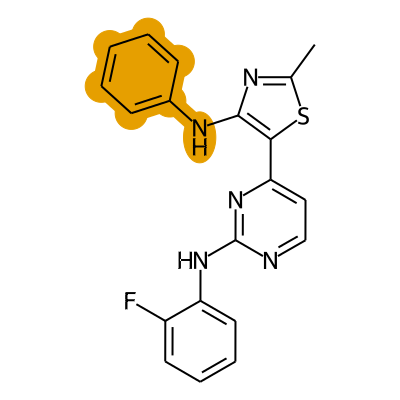
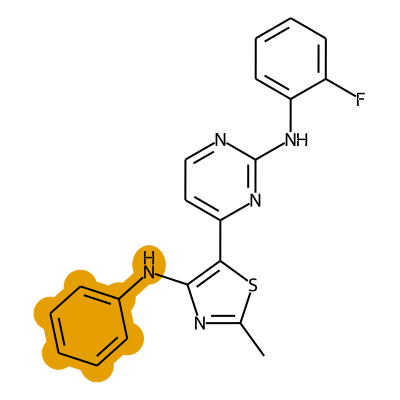
#19 WIP: Change how the MCS calculation works.
The molecules are included in a Pool, where MCS (core) is calculated once. This
core is used to build the image for each molecule.

Careful: RDKit is a bit hackish, so set and retrieve properties is not straight
forward, and you lose track of the Objects quite easily.

diff --git a/networkgen/mapgen.py b/networkgen/mapgen.py
@@ -1,5 +1,5 @@
 import argparse
-from functools import lru_cache
+from functools import cached_property, lru_cache
 import io
 
 import networkx as nx
@@ -32,22 +32,76 @@ def get_palette(name="OKABE"):
     return result
 
 
+class MoleculePool:
+    """Keeps track of a group of molecules, adding the properties needed.
+
+    mcs: The Maximum Common Substructure (the core).
+    core: The common core for all molecules as a Mol object.
+    query_core: Same as core, but to use with decomposition.
+    groups: A list of Core + Residues found for each molecule."""
+    def __init__(self, molecules):
+        self.molecules = molecules
+        self.groups  # Inits the core
+
+    def __getitem__(self, idx):
+        return self.molecules[idx]
+
+    @cached_property
+    def mcs(self):
+        if len(self.molecules) == 1:
+            # If the "pool" is only one, create a pool of two to cheat FindMCS.
+            # The MCS will be the whole molecule.
+            molecules = [self.molecules[0], self.molecules[0]]
+        else:
+            molecules = self.molecules
+
+        return rdFMCS.FindMCS(molecules,
+                              matchValences=False,
+                              ringMatchesRingOnly=True,
+                              completeRingsOnly=True,
+                              matchChiralTag=False)
+
+    @cached_property
+    def core(self):
+        return Chem.MolFromSmarts(self.mcs.smartsString)
+
+    @cached_property
+    def query_core(self):
+        ps = Chem.AdjustQueryParameters.NoAdjustments()
+        ps.makeDummiesQueries = True
+        return Chem.AdjustQueryProperties(self.core, ps)
+
+    @cached_property
+    def groups(self):
+        molecule_matches = []
+        for molecule in self.molecules:
+            if molecule.HasSubstructMatch(self.query_core):
+                molecule_matches.append(molecule)
+                for atom in molecule.GetAtoms():
+                    atom.SetIntProp("SourceAtomIdx", atom.GetIdx())
+
+        return Chem.rdRGroupDecomposition.RGroupDecompose(
+            [self.query_core], molecule_matches, asSmiles=False, asRows=True)[0]
+
+
 class MoleculeImage:
     """Creates and writes Images of molecules."""
     # Workflow mostly based on
     # https://rdkit.blogspot.com/2020/10/molecule-highlighting-and-r-group.html
-    def __init__(self, molecule, core=None, palette="OKABE"):
-        self.molecule = Chem.Mol(molecule)  # RDKit modifies the original
+    def __init__(self, pool_idx=0, pool=None, palette="OKABE"):
+        self.pool = pool  # This is the info of all other molecules
+        self.pool_idx = pool_idx
+        self.molecule = Chem.Mol(self.pool[self.pool_idx])  # RDKit modifies the original
         # Create a new molecule to store the drawing changes
         self.draw_mol = self.molecule
 
         self.palette = get_palette(name=palette)
         try:
-            self.name = molecule.GetProp("_Name")
+            self.name = self.molecule.GetProp("_Name")
         except KeyError:
             self.name = ""
 
-        self.core = core  # This is the part of the molecule common to others
+        self.core = Chem.Mol(self.pool.core)  # Copy the core
         self.size = (400, 400)
         self.fill_rings = False
         self.idx_property = "SourceAtomIdx"
@@ -69,20 +123,20 @@ class MoleculeImage:
             self.core = Chem.MolFromSmarts(self.core.smartsString)
             rdDepictor.Compute2DCoords(self.core)
 
-    def _find_core(self):
-        """Find the MCS (core) structure in our molecule and set up groups."""
-        #  then tag matching atom indices in each ligand.
-        ps = Chem.AdjustQueryParameters.NoAdjustments()
-        ps.makeDummiesQueries = True
-
-        qcore = Chem.AdjustQueryProperties(self.core, ps)
-        if self.molecule.HasSubstructMatch(qcore):
-            for atom in self.molecule.GetAtoms():
-                atom.SetIntProp("SourceAtomIdx", atom.GetIdx())
-
-        self.groups = rdRGroupDecomposition.RGroupDecompose(
-            [qcore], [self.molecule], asSmiles=False, asRows=True)[0][0]
-
+#    def _find_core(self):
+#        """Find the MCS (core) structure in our molecule and set up groups."""
+#        #  then tag matching atom indices in each ligand.
+#        ps = Chem.AdjustQueryParameters.NoAdjustments()
+#        ps.makeDummiesQueries = True
+#
+#        qcore = Chem.AdjustQueryProperties(self.core, ps)
+#        if self.molecule.HasSubstructMatch(qcore):
+#            for atom in self.molecule.GetAtoms():
+#                atom.SetIntProp("SourceAtomIdx", atom.GetIdx())
+#
+#        self.groups = rdRGroupDecomposition.RGroupDecompose(
+#            [qcore], [self.molecule], asSmiles=False, asRows=True)[0][0]
+#
     def _fix_isotopes(self):
         """Include the atom map numbers in the substructure search in order to
         try to ensure a good alignment of the molecule to symmetric cores."""
@@ -90,7 +144,7 @@ class MoleculeImage:
             atom.ExpandQuery(
                 rdqueries.IsotopeEqualsQueryAtom(200 + atom.GetAtomMapNum()))
 
-        for label, group in self.groups.items():
+        for label, group in self.pool.groups[self.pool_idx].items():
             if label == 'Core':
                 continue
             for atom in group.GetAtoms():
@@ -110,7 +164,6 @@ class MoleculeImage:
         """Remove unmapped hs so that they don't mess up the depiction.
 
         Updates the old indexes mapped to new ones"""
-
         rhps = Chem.RemoveHsParameters()
         rhps.removeMapped = False
         self.draw_mol = Chem.RemoveHs(self.molecule, rhps)
@@ -125,7 +178,8 @@ class MoleculeImage:
                 else:
                     atom.SetIsotope(0)
 
-        rdDepictor.GenerateDepictionMatching2DStructure(self.draw_mol, self.core)
+        #self.draw_mol = rdDepictor.GenerateDepictionMatching2DStructure(
+        #    self.draw_mol, self.core)
 
     def _add_ring(self, group, color):
         """Add rings found in group to self.rings."""
@@ -203,7 +257,7 @@ class MoleculeImage:
 
     def png(self):
         """Create a PNG with the data."""
-        # Store which atoms, bonds, and rings we'll be highlighted
+        # Store which atoms, bonds, and rings will be highlighted
         highlights = [{}, {}, {}, {}]
 
         # Initialize the drawing
@@ -212,15 +266,13 @@ class MoleculeImage:
         canvas_options.useBWAtomPalette()
 
         if self.core:
-            self._find_core()
             self._fix_isotopes()
             self._remove_hs()
-
             # Loop over R groups.
-            for color, (label, group) in zip(self.palette, self.groups.items()):
+            for color, (label, group) in zip(
+                    self.palette, self.pool.groups[self.pool_idx].items()):
                 if label == "Core":
                     continue
-
                 self._highlight_residue(group, color, highlights)
 
                 if self.fill_rings:
@@ -415,7 +467,7 @@ class MapGen():
                         H.add_edge(l1, l2, weight=score)
                         break
 
-            # 2. Close Cycles        
+            # 2. Close Cycles
             while len(self.outer_nodes(H)) != 0:
                 added_edge = False
                 for pert, score in lpd.items():

diff --git a/networkgen/test_utils.py b/networkgen/test_utils.py
@@ -179,15 +179,11 @@ class ImageGenerator(TestCase):
             mol_data = io.BytesIO(m.read())
 
         self.molecules = list(Chem.ForwardSDMolSupplier(mol_data))
-        self.core = Chem.rdFMCS.FindMCS(self.molecules,
-                                        matchValences=False,
-                                        ringMatchesRingOnly=True,
-                                        completeRingsOnly=True,
-                                        matchChiralTag=False)
+        self.pool = mapgen.MoleculePool(self.molecules)
 
     def test_color_palette(self):
         ## This is the default palette, precalculated
-        imgr = mapgen.MoleculeImage(self.molecules[0])
+        imgr = mapgen.MoleculeImage(pool_idx=0, pool=self.pool)
         assert imgr.palette == [
             (0, 0, 0),
             (0.9019607843137255, 0.6235294117647059, 0.0),
@@ -198,7 +194,8 @@ class ImageGenerator(TestCase):
             (0.8352941176470589, 0.3686274509803922, 0.0),
             (0.8, 0.4745098039215686, 0.6549019607843137)]
 
-        imgr = mapgen.MoleculeImage(self.molecules[0], palette="IBM")
+        imgr = mapgen.MoleculeImage(pool_idx=0, pool=self.pool,
+                                    palette="IBM")
         assert imgr.palette == [
             (0, 0, 0),
             (0.39215686274509803, 0.5607843137254902, 1.0),
@@ -208,41 +205,36 @@ class ImageGenerator(TestCase):
             (1.0, 0.6901960784313725, 0.0)]
 
     def test_needed_properties_for_image_generation(self):
-        imgr = mapgen.MoleculeImage(molecule=self.molecules[0],
-                                    core=self.core)
+        imgr = mapgen.MoleculeImage(pool_idx=0,
+                                    pool=self.pool)
 
         assert imgr.name == "30"
 
         assert isinstance(imgr.core, Chem.rdchem.Mol)
 
     def test_molecules_are_flatten(self):
-        imgr = mapgen.MoleculeImage(molecule=self.molecules[0],
-                                    core=self.core)
+        imgr = mapgen.MoleculeImage(pool_idx=0,
+                                    pool=self.pool)
         assert imgr._flatten_molecule() == None
 
     def test_substructure_core_finder(self):
         """We have to find the MCS (core) structure in our molecule."""
-        imgr = mapgen.MoleculeImage(molecule=self.molecules[0],
-                                    core=self.core)
-
-        with self.assertRaises(KeyError):
-            # The key as not been set yet
-            [_.GetProp("SourceAtomIdx") for _ in imgr.molecule.GetAtoms()]
-
-        assert imgr._find_core() == None
+        imgr = mapgen.MoleculeImage(pool_idx=0,
+                                    pool=self.pool)
 
         assert [_.GetProp("SourceAtomIdx") for _ in imgr.molecule.GetAtoms()]
 
     def test_png_from_smiles_single_molecule(self):
         molecule = Chem.MolFromSmiles('Cc1nc(C)c(s1)c2ccnc(Nc3ccccc3F)n2')
-        imgr = mapgen.MoleculeImage(molecule=molecule)
+        pool = mapgen.MoleculePool([molecule])
+        imgr = mapgen.MoleculeImage(pool_idx=0, pool=pool)
 
         with open(self.test_files / "Plain.png", "rb") as r:
             assert imgr.png() == r.read()
 
     def test_png_generation(self):
-        imgr = mapgen.MoleculeImage(molecule=self.molecules[0],
-                                    core=self.core)
+        imgr = mapgen.MoleculeImage(pool_idx=0,
+                                    pool=self.pool)
 
         with open(self.test_files / "Sample30.png", "rb") as r:
             assert imgr.png() == r.read()
@@ -250,20 +242,37 @@ class ImageGenerator(TestCase):
     def test_png_from_smiles(self):
         mol1 = Chem.MolFromSmiles('Cc1nc(C)c(s1)c2ccnc(Nc3ccccc3F)n2')
         mol2 = Chem.MolFromSmiles('Cc1nc(Nc5ccccc5)c(s1)c2ccnc(Nc3ccccc3F)n2')
+        pool = mapgen.MoleculePool([mol1, mol2])
 
-        core = Chem.rdFMCS.FindMCS([mol1, mol2],
-                                   matchValences=False,
-                                   ringMatchesRingOnly=True,
-                                   completeRingsOnly=True,
-                                   matchChiralTag=False)
-
-        imgr = mapgen.MoleculeImage(molecule=mol2, core=core)
+        imgr = mapgen.MoleculeImage(pool_idx=1, pool=pool)
         imgr.name = "Sample"
         with open(self.test_files / "HollowRing.png", "rb") as r:
             assert imgr.png() == r.read()
 
-        imgr = mapgen.MoleculeImage(molecule=mol2, core=core)
+        imgr = mapgen.MoleculeImage(pool_idx=1, pool=pool)
         imgr.fill_rings = True
         imgr.name = "Sample2"
         with open(self.test_files / "FilledRing.png", "rb") as r:
             assert imgr.png() == r.read()
+
+class PoolGenerator(TestCase):
+    def setUp(self):
+        self.test_files = Path(__file__).parent / "test_files"
+        with open(self.test_files / "CDK2_ligands.sdf", "rb") as m:
+            mol_data = io.BytesIO(m.read())
+
+        self.molecules = list(Chem.ForwardSDMolSupplier(mol_data))
+
+    def test_the_cores_can_be_calculated(self):
+        pool = mapgen.MoleculePool(self.molecules)
+
+        assert isinstance(pool.mcs, Chem.rdFMCS.MCSResult)
+        assert isinstance(pool.core, Chem.rdchem.Mol)
+        assert isinstance(pool.query_core, Chem.rdchem.Mol)
+
+    def test_group_decomposition(self):
+        pool = mapgen.MoleculePool(self.molecules)
+
+        assert len(pool.groups) == 16
+        for molecule in pool.groups:
+            assert list(molecule.keys()) == ["Core", "R1", "R2"]

diff --git a/networkgen/models.py b/networkgen/models.py
@@ -83,8 +83,9 @@ class Generator(TimeStampedModel):
         Path(settings.MEDIA_ROOT / "molimages").mkdir(exist_ok=True)
 
         ligands = []
-        for molecule in m.molecules:
-            moleculeImage = mapgen.MoleculeImage(molecule=molecule, core=m.mcs)
+        pool = mapgen.MoleculePool(m.molecules)
+        for i, molecule in enumerate(m.molecules):
+            moleculeImage = mapgen.MoleculeImage(pool_idx=i, pool=pool)
             ligand = Ligand(
                 charge=Chem.rdmolops.GetFormalCharge(molecule),
                 atom_number=len(molecule.GetAtoms()),
